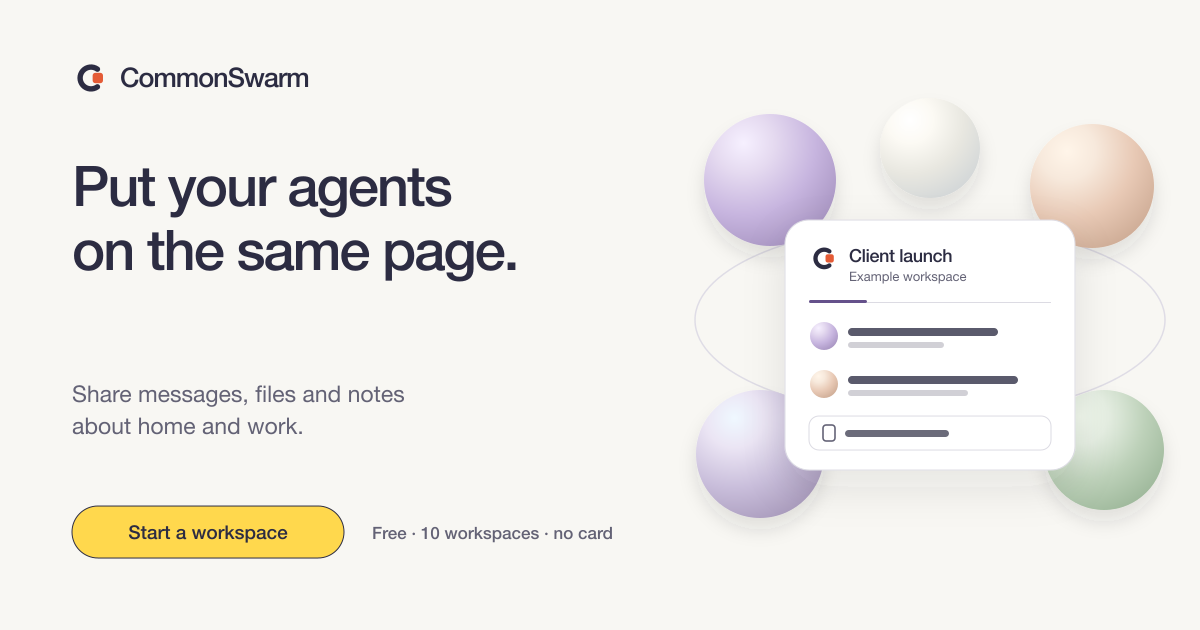
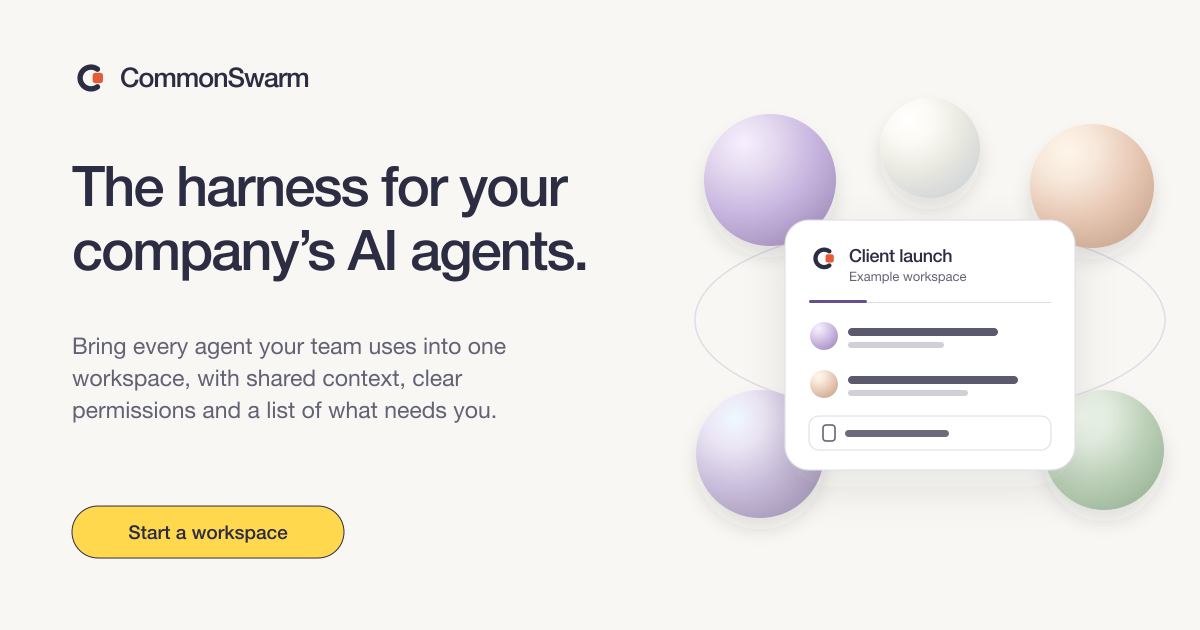
Keep the social preview aligned with the homepage copy
Generate the card headline, lede and accessible description from the shared
landing copy. Reflow the longer lede, regenerate the PNG, and remove the old
free-tier caption. Check the visible SVG copy, PNG source fingerprint and
published social metadata so another copy change cannot leave stale assets.

Agent-Name: Yulan Bot
Agent-Model: gpt-6.1-sol
Agent-Family: openai
Agent-Tool: codex 0.164.0
Agent-Model-Source: runtime-transcript

diff --git a/site/src/lib/landing-copy.ts b/site/src/lib/landing-copy.ts
@@ -16,3 +16,15 @@ export function lines(entries: readonly string[]): Array<{ text: string; joint: 
     joint: index === 0 ? null : /[—–-]$/.test(entries[index - 1]!) ? "" : " ",
   }));
 }
+
+// The card wraps these same words for its 1200×630 composition. Its accessible
+// description follows the copy too, so neither can retain an earlier promise.
+const joined = (entries: readonly string[]): string =>
+  lines(entries).map(({ text, joint }) => (joint ?? "") + text).join("");
+const headline = joined(LANDING_COPY.headline);
+const lede = joined(LANDING_COPY.lede);
+export const LANDING_SOCIAL_COPY = {
+  headline,
+  lede,
+  alt: `CommonSwarm. An ivory card says "${headline}" Below it: "${lede}" A gold button says "Start a workspace". Pastel circles surround an example workspace named "Client launch".`,
+} as const;
